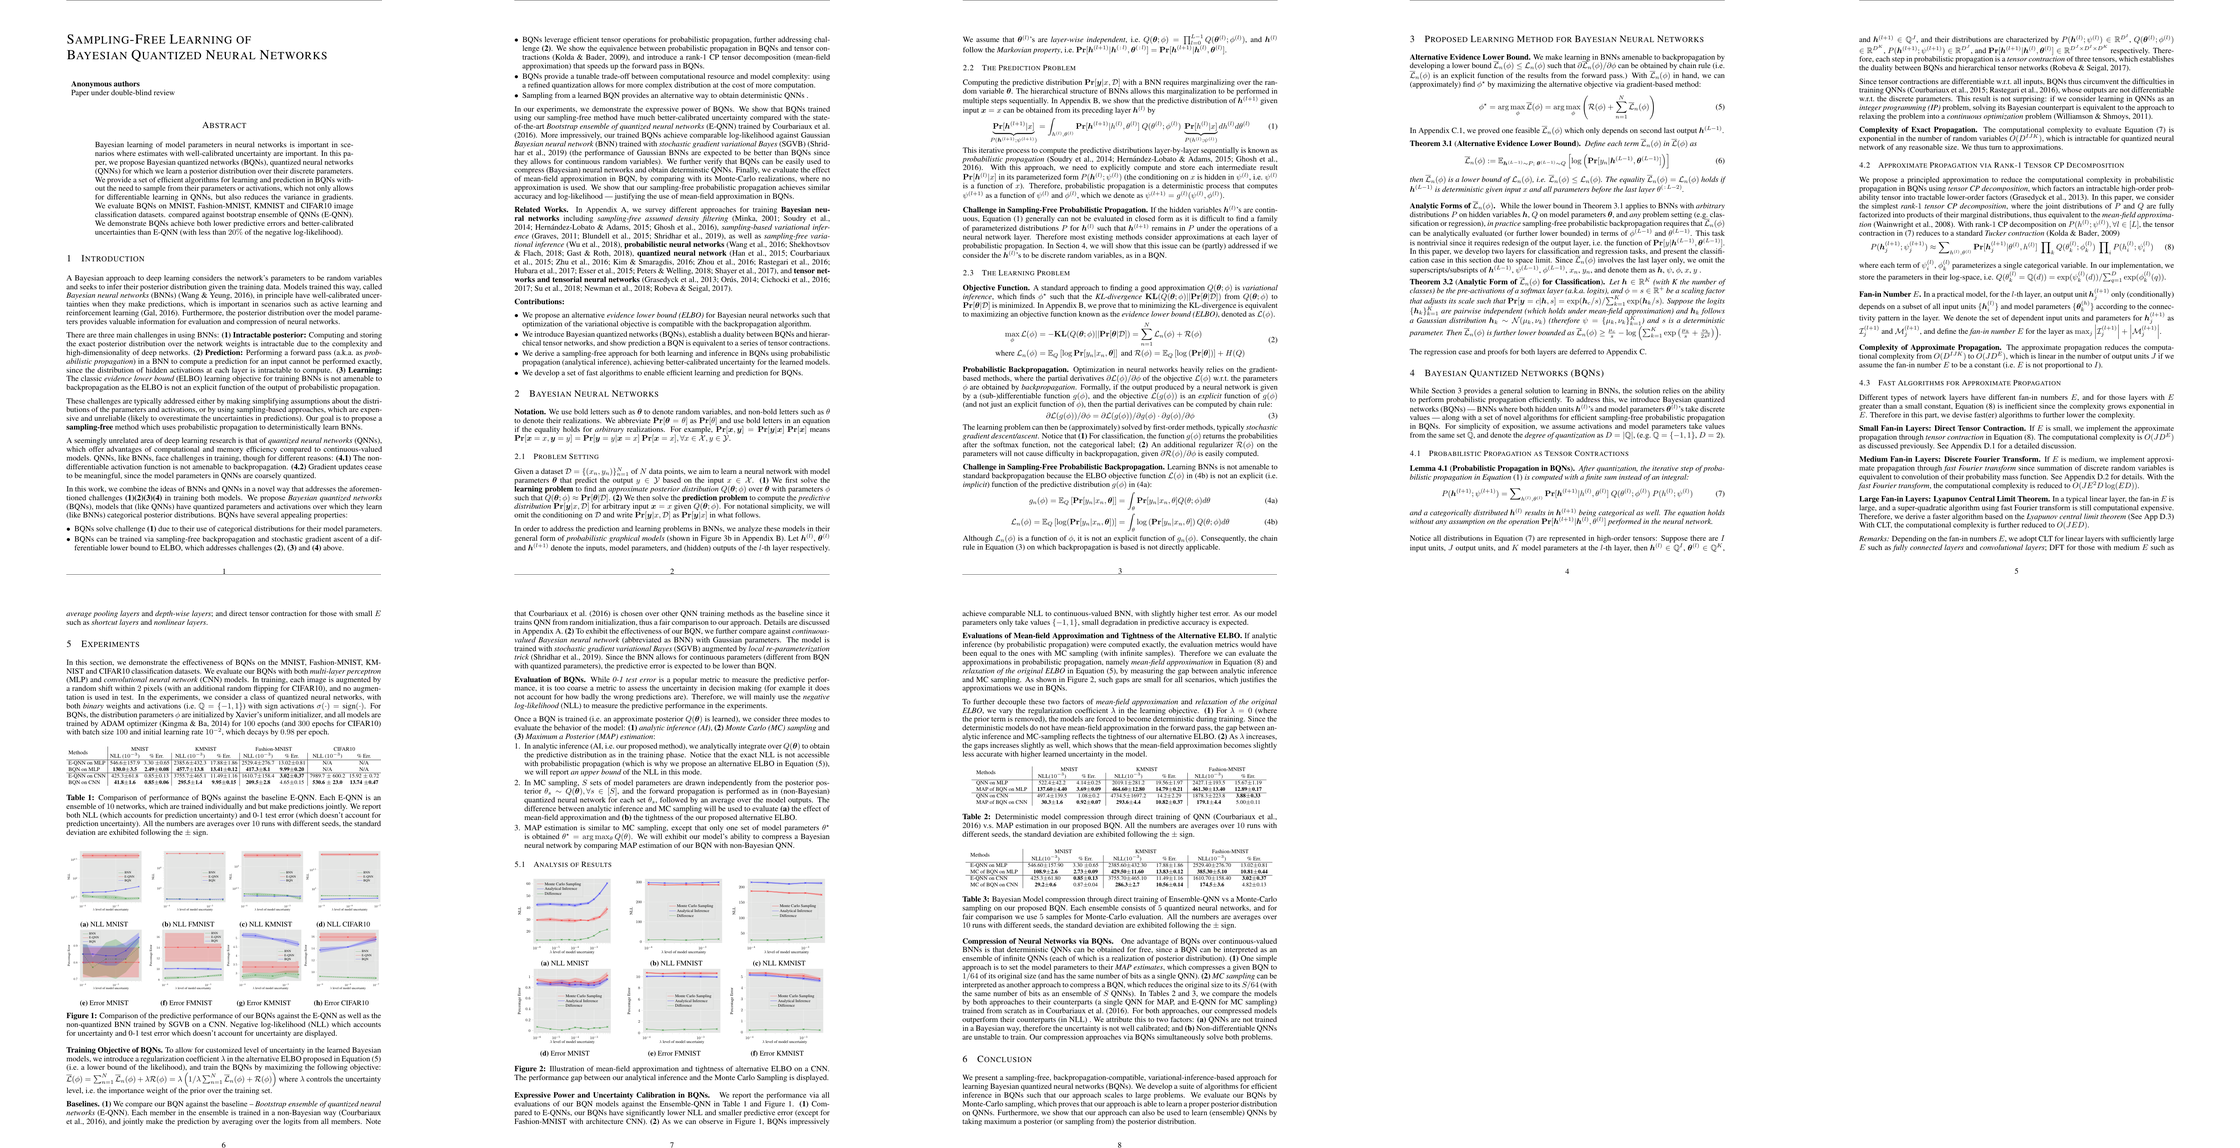
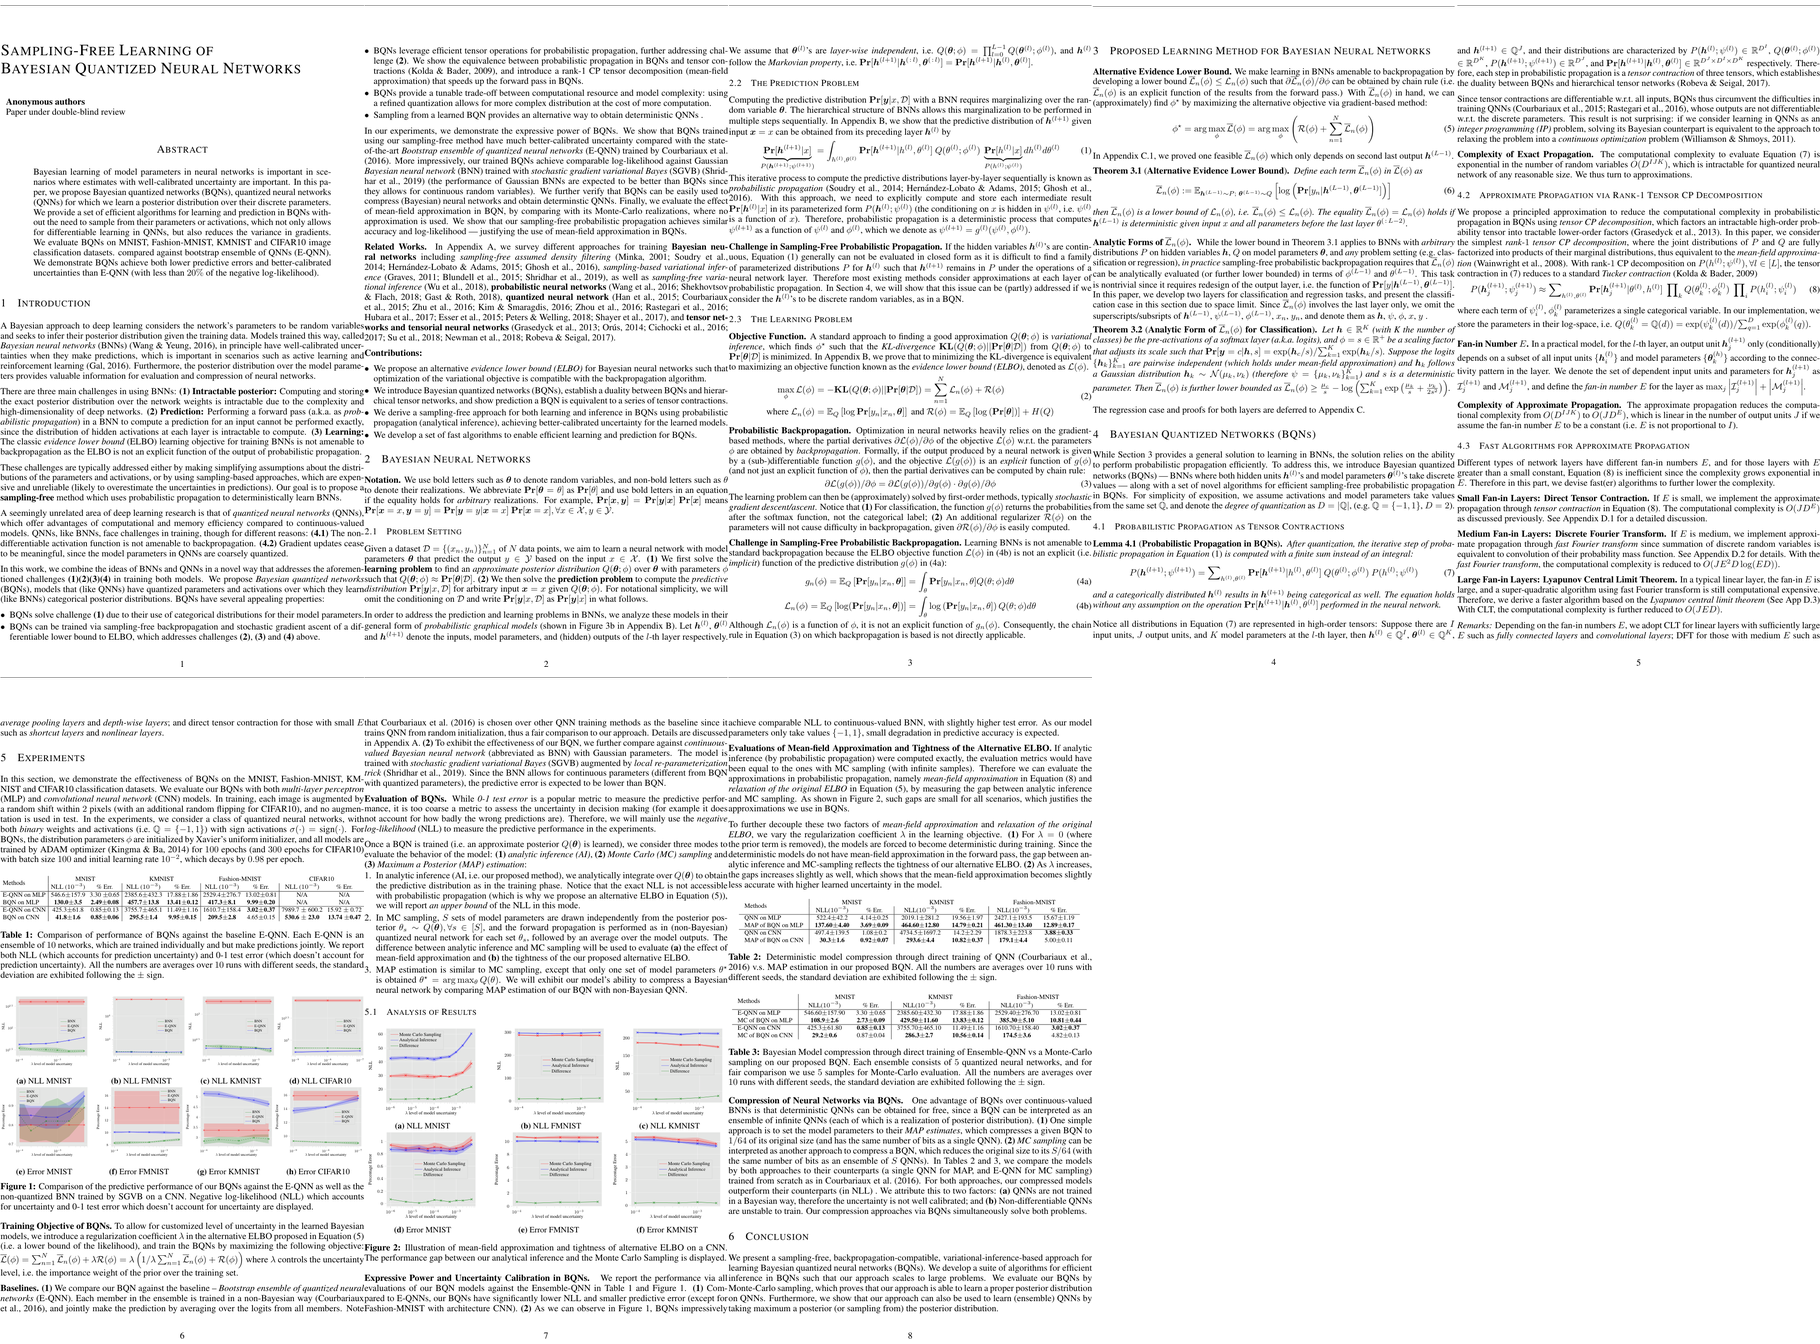
build_panel_images: 1820x1344 canvas matches ICLR content aspect (0.55)
Empirical p10..p90 of trimmed ICLR pages = 0.55 W/H (tall narrow text
column with ~1.6in side margins).  At 0.781 cell aspect we were
wasting ~30% of each cell as left/right whitespace.

Switch canvas to 1820x1344 (5x2 grid, cells 364x672, aspect 0.542).
Tokens drop slightly: 3,280 -> 3,120.

Changed region(s): [[0.0, 0.0305, 1.0, 0.4878], [0.0, 0.5183, 0.6154, 1.0], [0.0, 0.0305, 0.1538, 0.0915]]

diff --git a/scripts/build_panel_images.py b/scripts/build_panel_images.py
@@ -32,7 +32,7 @@ from PIL import Image, ImageChops
 ROOT = Path(__file__).resolve().parents[1]
 PANEL_DIR = ROOT / "data" / "images_panel"
 
-TARGET_W, TARGET_H = 2240, 1148  # Qwen2.5-VL smart_resize no-op @ max_pixels=4014080
+TARGET_W, TARGET_H = 1820, 1344  # cell aspect 0.542 ~ ICLR trimmed-content aspect 0.55
 ROWS, COLS = 2, 5
 PANEL_W, PANEL_H = TARGET_W // COLS, TARGET_H // ROWS  # 448 x 574
 MAX_PAGES = ROWS * COLS  # 10
